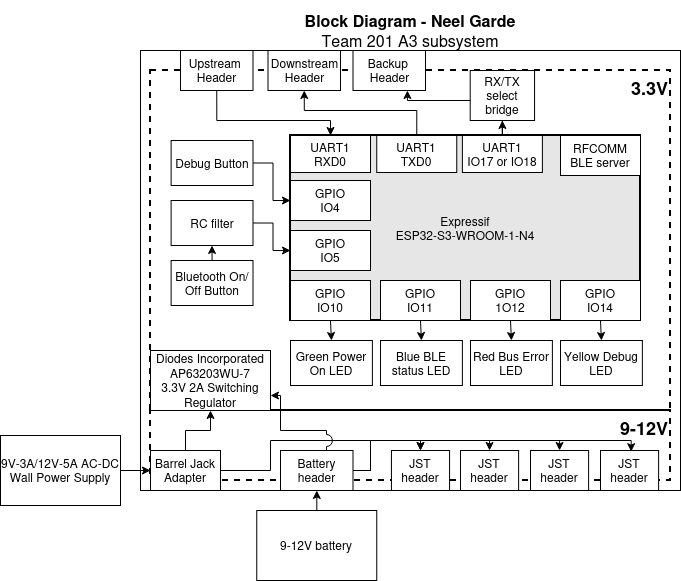
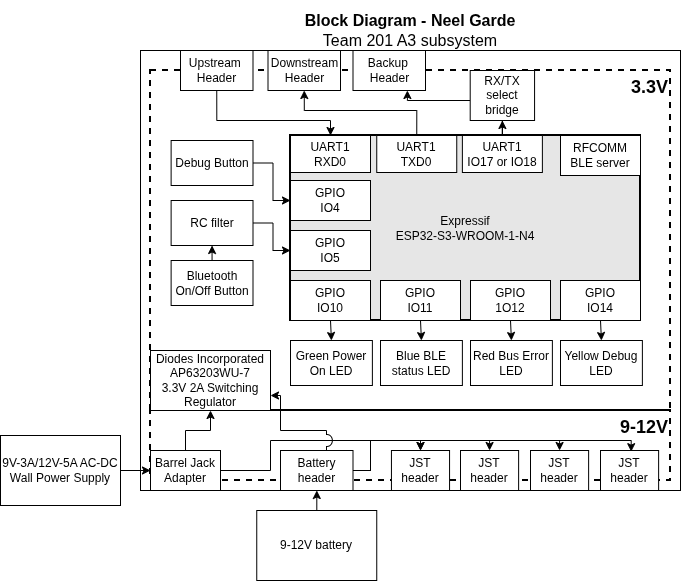
deploy: 7af4f7746897dad255a3231a1c453cff9a22862e

diff --git a/02-Block-Diagram/Block-Diagram/index.html b/02-Block-Diagram/Block-Diagram/index.html
@@ -972,10 +972,15 @@
     - A wall power source (either 9V 2A or 12V 5A) can be connected via a barrel jack.
     - A 3.3V regulator supplies the voltage necessary for the ESP32 to function.
 - Data transmission within the robot is handled through 8-pin UART bus connectors.
+    - A spare header is provided to connect to either IO18 (RX) or IO17 (TX). These ended up being used to solder wires to the headers, as RXD0 and TXD0 are where the ESP32 can recieve keyboard interrupts and programming instructions.
 - Programming is done via a microUSB interface connected to the ESP32 microcontroller.
 - In order to facilitate remote control, the ESP32's bluetooth low-energy (BLE) module is used to communicate bidirectionally with subsystem A2 to send sensor data and recieve user input data.</p>
 <h2 id="block-diagram">Block Diagram</h2>
-<p><a class="glightbox" data-type="image" data-width="auto" data-height="auto" href="../BDV5.png" data-desc-position="bottom"><img alt="A3 block diagram" src="../BDV5.png"></a></p>
+<p>The following block diagram represents the intended design:<br>
+<a class="glightbox" data-type="image" data-width="auto" data-height="auto" href="../BDV5.png" data-desc-position="bottom"><img alt="A3 inteded block diagram" src="../BDV5.png"></a>
+<br>
+Due to defects in a tape of voltage regulators and some of the PCBs, as well as a design flaw in the UART pins of choice, the following system was prototyped:<br>
+<a class="glightbox" data-type="image" data-width="auto" data-height="auto" href="../BDV5.png" data-desc-position="bottom"><img alt="A3 prototype block diagram" src="../BDV5.png"></a></p>
 
 
 
